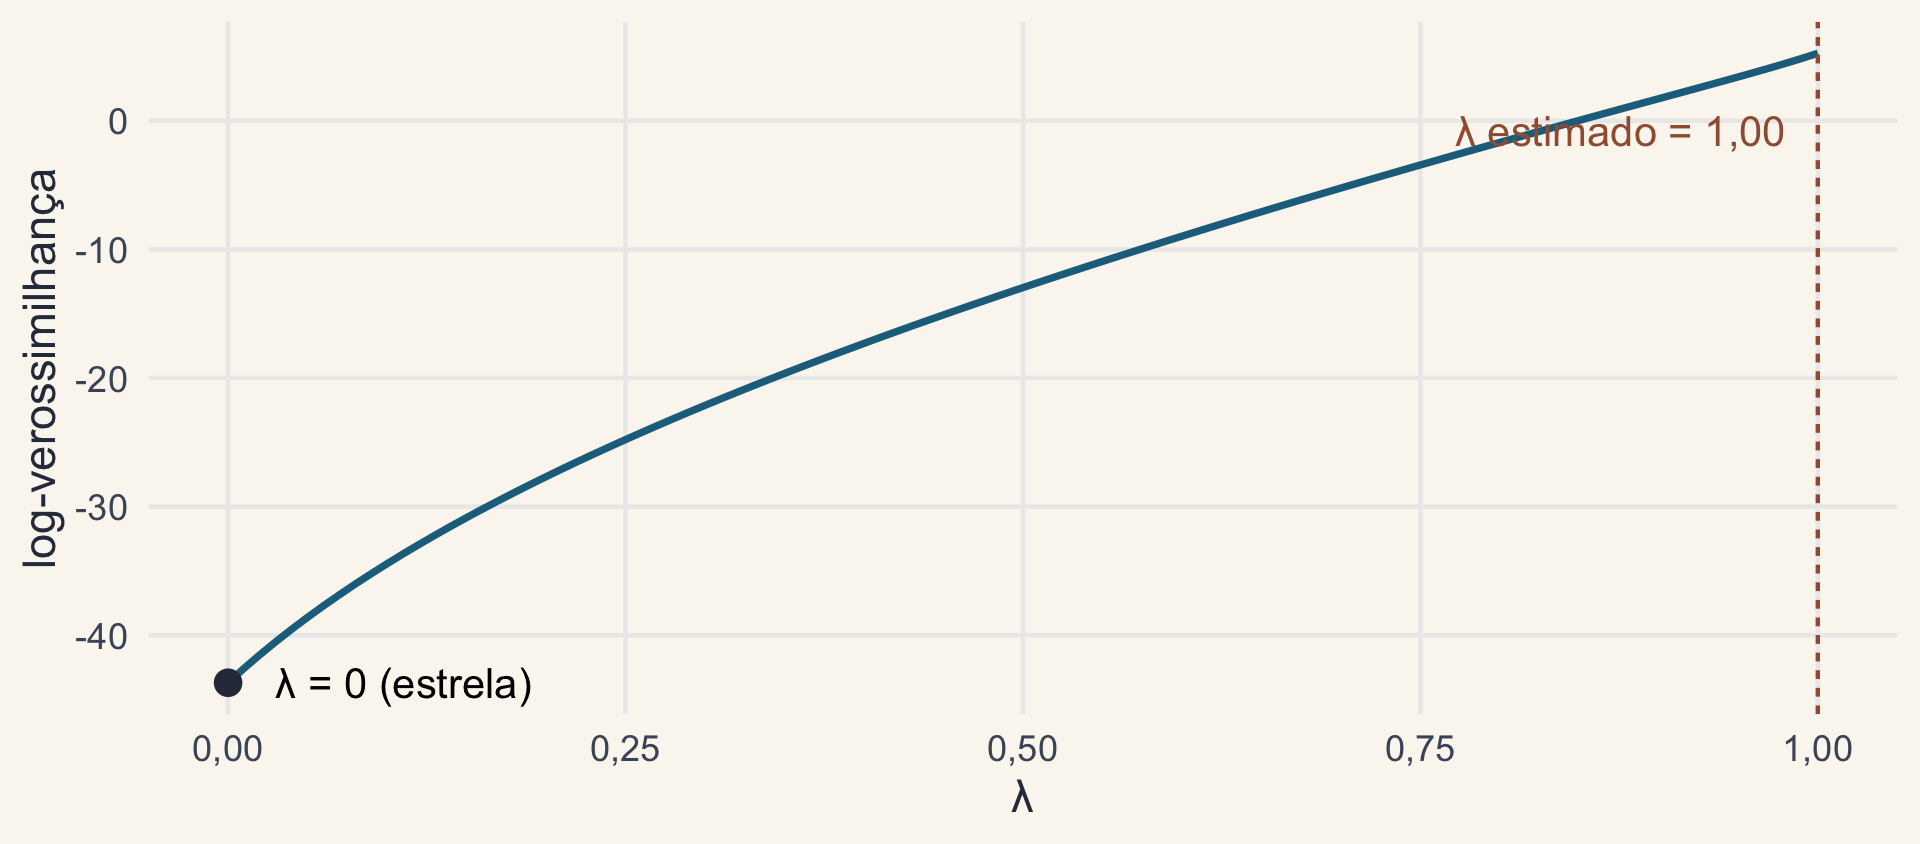
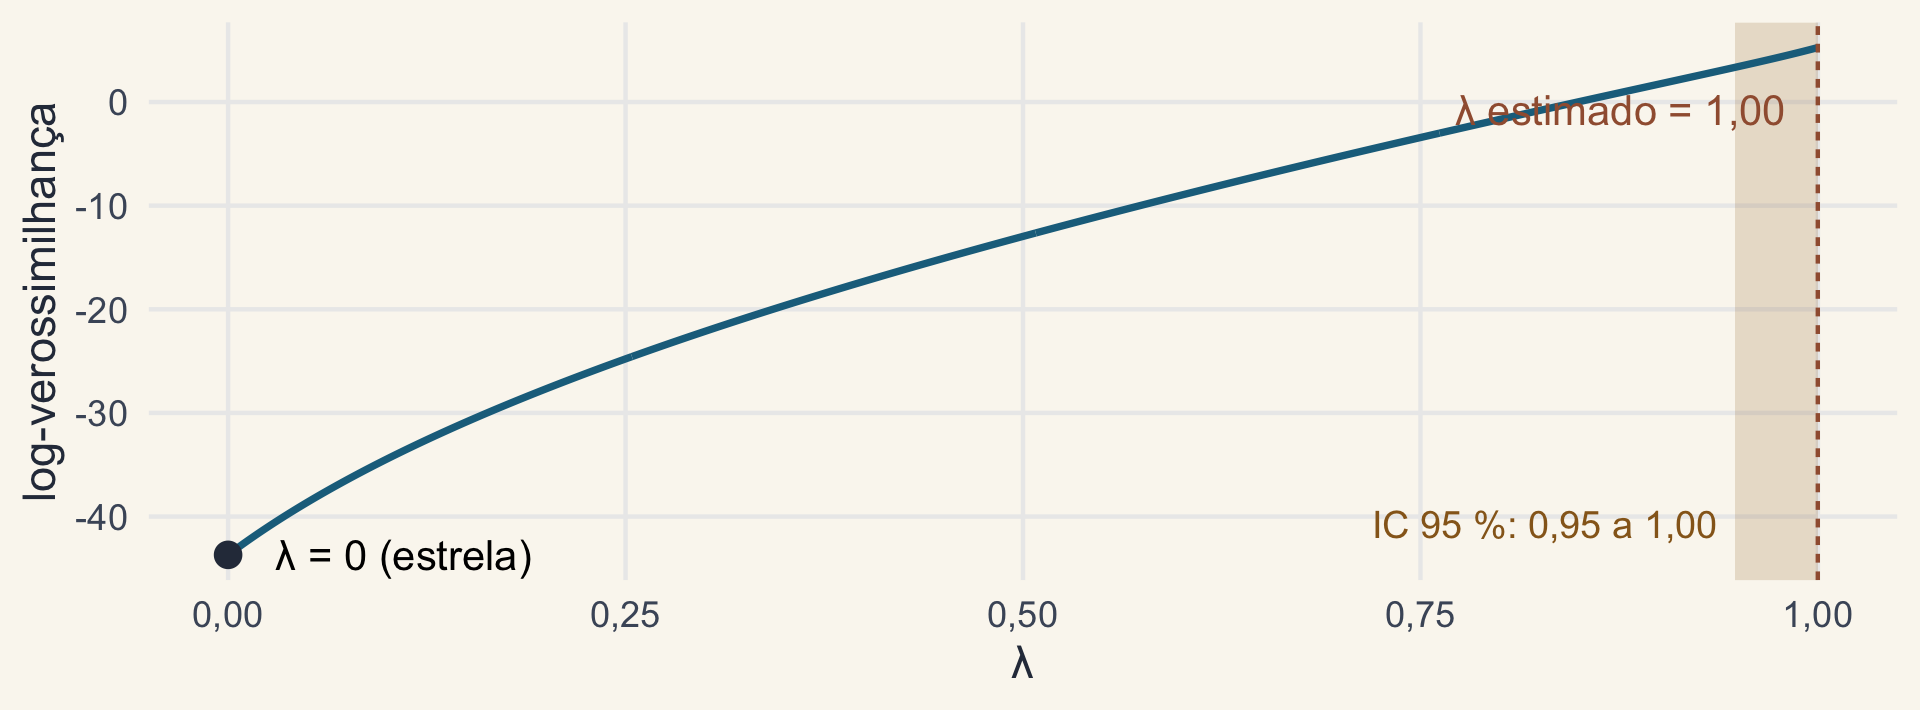
Aula 3: Pearse et al. (2025), C de Abouheif com a árvore e decomposição de Rao com as três estatísticas
- Figs. 1 e 3 de Pearse, Davies & Wolkovich (2025, CC BY); IC no perfil do λ;
  cinco pontos sobre o λ.
- Exemplo de Abouheif redesenhado com a árvore, as massas e os d².
- Três estatísticas de Pavoine e a Fig. 3 de Franco-Belussi et al. (2017,
  CC BY), com o aviso de que os círculos não são estados ancestrais.

diff --git a/inventarios/a03.md b/inventarios/a03.md
@@ -252,3 +252,17 @@ redesenhadas.
   0,16.
 - Trechos que o original trazia como imagem de artigo foram parafraseados
   (Blomberg et al. 2003; Rohlf 2001; Diniz-Filho et al. 2012, *Ecography*).
+
+## 9. Revisão do Diogo (19/out/2026)
+
+- **Pearse, Davies & Wolkovich (2025)**, *GEB*, CC BY (`10.1111/geb.70012`):
+  Fig. 1 (o λ multiplica os elementos fora da diagonal de **C**; λ > 1 até
+  o limite), Fig. 3 (amostragem não aleatória enviesa o λ), intervalo de
+  confiança no perfil do λ e um slide com os cinco pontos do artigo.
+- **C de Abouheif**: o slide do exemplo agora mostra a árvore de oito pontas,
+  as massas e os d² entre vizinhas, e explica a lógica (Σd² pequeno → C alto).
+- **Decomposição de Rao**: as três estatísticas de Pavoine (um nó, poucos
+  nós, raiz × pontas) e um exemplo com a Fig. 3 de Franco-Belussi, Provete &
+  De Oliveira (2017, *Ecol. Evol.*, CC BY), com o aviso de que os círculos
+  são contribuições à diversidade, **não** estados ancestrais. O artigo da
+  *Zool. Scr.* (2012) está fechado no Crossref/Unpaywall: citado, sem figura.

diff --git a/assets/terceiros/FONTES.md b/assets/terceiros/FONTES.md
@@ -3,3 +3,5 @@
 | Arquivo | Origem | Licença | Aula |
 |---|---|---|---|
 | `diniz-filho-2012-gmb-fig2.jpg` | Fig. 2 de Diniz-Filho, Santos, Rangel & Bini (2012) *Genet. Mol. Biol.* 35: 673–679, [doi:10.1590/s1415-47572012005000053](https://doi.org/10.1590/s1415-47572012005000053), baixada do SciELO | **CC BY-NC 4.0** (indicada na página do artigo no SciELO; o Unpaywall registra CC BY). Uso em curso sem fins lucrativos, sem modificação | 3 |
+| `pearse-2025-fig1.png`, `pearse-2025-fig3.png` | Figs. 1 e 3 de Pearse, Davies & Wolkovich (2025) *Glob. Ecol. Biogeogr.* 34: e70012, [doi:10.1111/geb.70012](https://doi.org/10.1111/geb.70012), recortadas do PDF | **CC BY 4.0** (Crossref e página do artigo) | 3 |
+| `franco-belussi-2017-fig3.jpg` | Fig. 3 de Franco-Belussi, Provete & De Oliveira (2017) *Ecol. Evol.* 7: 9222–9233, [doi:10.1002/ece3.3438](https://doi.org/10.1002/ece3.3438), baixada do PMC (PMC5696405) | **CC BY 4.0** (Crossref) | 3 |
